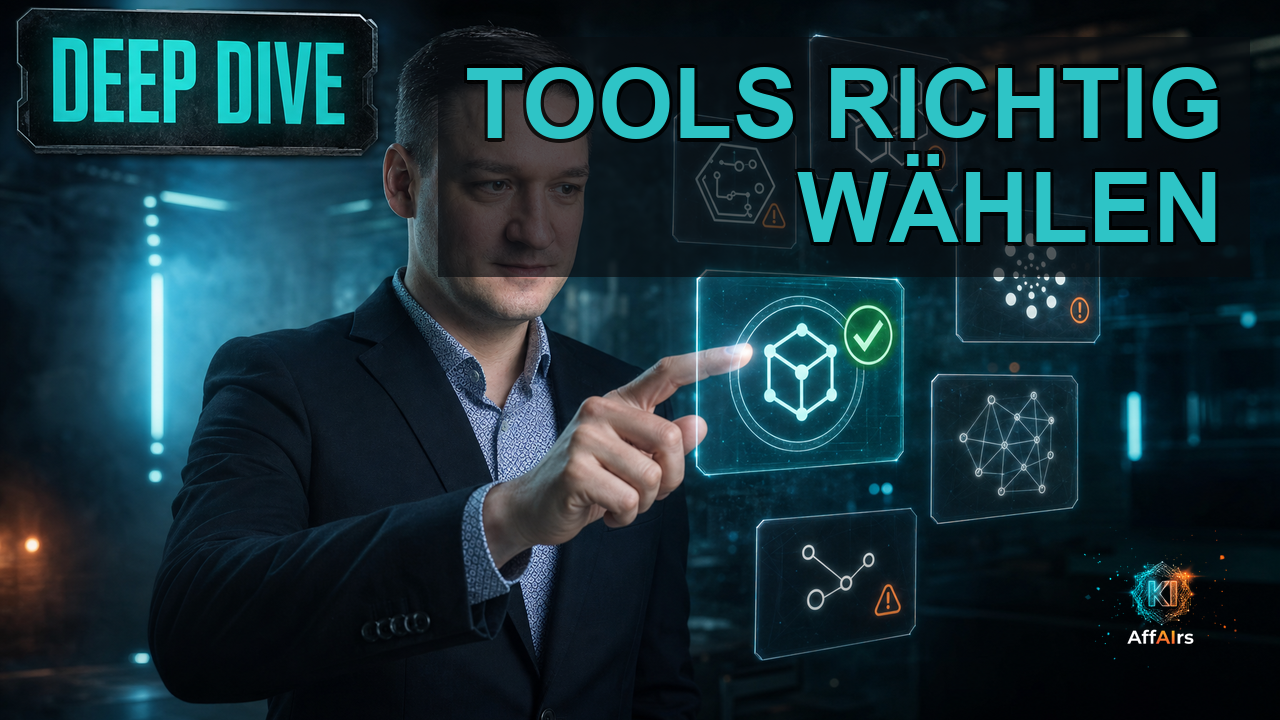
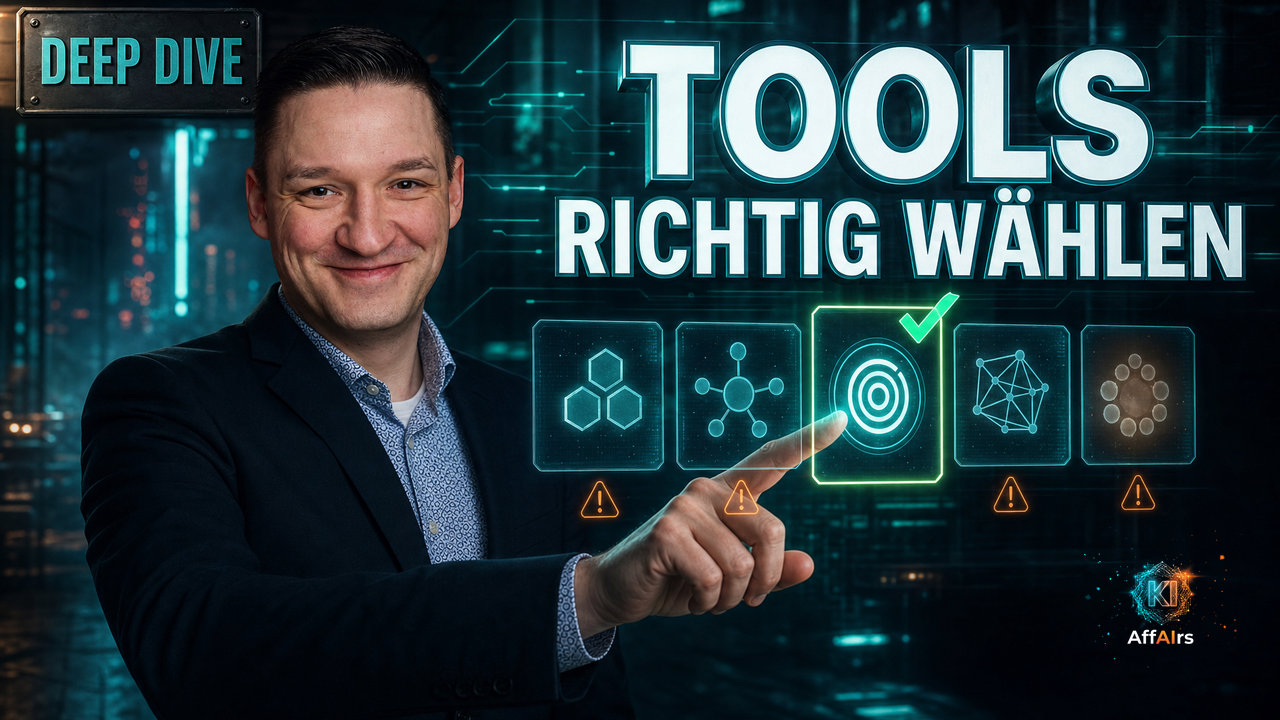
Thumbnails: nativer Text statt Pillow-Overlay + Thumbnail-Standard (Hybrid)
- Thumbnails 035/036 mit nativ generiertem, integriertem Headline-Text (statt aufgeklebtem Pillow-Text)
- Thumbnail-Standard festgelegt: fester DIN-Badge + Logo per Code, Headline nativ, Motiv frei (THUMBNAIL-STANDARD.md)
- tools/thumb_template.py: fester Marken-Badge (DIN Condensed Bold, Quicky=orange/DeepDive=cyan) + Logo
- gilt ab Folge 037; 035/036 behalten nativen Badge

diff --git a/tools/thumb_template.py b/tools/thumb_template.py
@@ -1,0 +1,107 @@
+#!/usr/bin/env python3
+# -*- coding: utf-8 -*-
+"""thumb_template.py — FESTER Marken-Rahmen für Podcast-Thumbnails (Wiedererkennungswert).
+
+Standard (Hybrid): Badge + Logo werden hier per Code IMMER GLEICH gesetzt; die große
+Headline wird nativ im KI-Motiv generiert (separat). Badge-Schrift = DIN Condensed Bold.
+
+  python thumb_template.py --in motiv.png --out final.png --kind quicky|deepdive \
+      [--cover-old]   # überdeckt einen bereits eingebrannten Badge oben links (für Mockups)
+"""
+import argparse
+from pathlib import Path
+from PIL import Image, ImageDraw, ImageFont, ImageFilter
+
+LOGO = Path.home() / "Desktop/Claude/Code/Bild Assets/ki_affairs_logo_transparent_clean.png"
+DIN = "/System/Library/Fonts/Supplemental/DIN Condensed Bold.ttf"
+ORANGE = (233, 113, 50)
+CYAN = (46, 196, 198)
+KINDS = {
+    "quicky":   {"label": "QUICKY",    "accent": ORANGE},
+    "deepdive": {"label": "DEEP DIVE", "accent": CYAN},
+}
+
+
+def font(size):
+    try:
+        return ImageFont.truetype(DIN, size)
+    except Exception:
+        return ImageFont.truetype("/System/Library/Fonts/Supplemental/Arial Bold.ttf", size)
+
+
+def draw_badge(img, label, accent, cover_old=False):
+    """Feste Marken-Plakette oben links: dunkles Tag, linker Akzentbalken, DIN-Versalien, dezenter Glow."""
+    base = img.convert("RGBA")
+    bw, bh = base.size
+    pad = int(bw * 0.030)                      # Außenabstand
+    fsz = int(bh * 0.085)                       # feste Schriftgröße
+    f = font(fsz)
+    d0 = ImageDraw.Draw(base)
+    # gesperrte Versalien für Plaketten-Look
+    text = " ".join(list(label)).replace("   ", "  ")  # leichtes Tracking
+    tw = int(d0.textlength(text, font=f))
+    th = fsz
+    bar = max(6, int(bw * 0.006))               # Akzentbalken-Breite
+    inner = int(fsz * 0.42)                      # Innenabstand
+    plate_w = bar + inner + tw + inner
+    plate_h = th + int(inner * 1.4)
+    x0, y0 = pad, pad
+    if cover_old:                                # alten eingebrannten Badge dezent abdunkeln (nur Eckzone)
+        cw = min(bw // 2, x0 + plate_w + int(pad * 1.2))
+        ch = y0 + plate_h + int(pad * 1.0)
+        scrim = Image.new("RGBA", (cw, ch), (0, 0, 0, 0))
+        sd = ImageDraw.Draw(scrim)
+        for yy in range(ch):                     # weicher vertikaler Verlauf, oben dunkler
+            a = int(200 * max(0.0, 1 - yy / ch) ** 1.2)
+            sd.line([(0, yy), (cw, yy)], fill=(8, 11, 15, a))
+        scrim = scrim.filter(ImageFilter.GaussianBlur(8))
+        base.alpha_composite(scrim, (0, 0))
+    layer = Image.new("RGBA", base.size, (0, 0, 0, 0))
+    dl = ImageDraw.Draw(layer)
+    # Glow
+    glow = Image.new("RGBA", base.size, (0, 0, 0, 0))
+    ImageDraw.Draw(glow).rectangle([x0 - 3, y0 - 3, x0 + plate_w + 3, y0 + plate_h + 3],
+                                   fill=accent + (90,))
+    layer = Image.alpha_composite(layer, glow.filter(ImageFilter.GaussianBlur(10)))
+    dl = ImageDraw.Draw(layer)
+    # Plakette
+    dl.rectangle([x0, y0, x0 + plate_w, y0 + plate_h], fill=(10, 14, 19, 235))
+    dl.rectangle([x0, y0, x0 + plate_w, y0 + plate_h], outline=accent + (255,), width=2)
+    dl.rectangle([x0, y0, x0 + bar, y0 + plate_h], fill=accent + (255,))   # Akzentbalken links
+    # Text vertikal zentriert
+    ty = y0 + (plate_h - th) // 2 - int(fsz * 0.12)
+    dl.text((x0 + bar + inner, ty), text, font=f, fill=accent + (255,))
+    base = Image.alpha_composite(base, layer)
+    return base
+
+
+def place_logo(base, frac=0.115, pad_frac=0.030):
+    base = base.convert("RGBA")
+    logo = Image.open(LOGO).convert("RGBA")
+    bw, bh = base.size
+    tw = int(bw * frac)
+    logo = logo.resize((tw, int(logo.height * tw / logo.width)), Image.LANCZOS)
+    pad = int(bw * pad_frac)
+    base.alpha_composite(logo, (bw - logo.width - pad, bh - logo.height - pad))
+    return base
+
+
+def main():
+    ap = argparse.ArgumentParser()
+    ap.add_argument("--in", dest="inp", required=True)
+    ap.add_argument("--out", required=True)
+    ap.add_argument("--kind", required=True, choices=list(KINDS))
+    ap.add_argument("--cover-old", action="store_true")
+    ap.add_argument("--no-logo", action="store_true")
+    a = ap.parse_args()
+    k = KINDS[a.kind]
+    img = Image.open(a.inp).convert("RGBA")
+    img = draw_badge(img, k["label"], k["accent"], cover_old=a.cover_old)
+    if not a.no_logo:
+        img = place_logo(img)
+    img.convert("RGB").save(a.out, "PNG")
+    print(f"OK -> {a.out}  [{k['label']}]")
+
+
+if __name__ == "__main__":
+    main()

diff --git a/tools/_write_thumb_text_prompts.py b/tools/_write_thumb_text_prompts.py
@@ -1,0 +1,61 @@
+#!/usr/bin/env python3
+# -*- coding: utf-8 -*-
+"""Schreibt Thumbnail-Prompts mit NATIV integrierter Headline (statt Pillow-Overlay)."""
+from pathlib import Path
+B = Path.home() / "Desktop/Claude/Code/podcastworkflow-cz/Staffel 03"
+D11 = B / "03-011_KI-und-die-menschliche-Psyche/bilder"
+D12 = B / "03-012_KI-lernt-luegen/bilder"
+
+CLAUS = ("Die beigefügten Fotos zeigen einen echten Mann namens Claus, Mitte 40, kurze dunkle Haare, "
+         "gepflegter Dreitagebart, dunkler Blazer. Übernimm sein Gesicht, seine Proportionen und seine "
+         "Identität exakt und konsistent, fotorealistisch, eine echte Person, niemals ein Roboter, niemals karikiert.")
+LOGO = ("Marke/Logo: Lasse die untere rechte Bildecke ruhig, dunkel und frei von Objekten und Text. Male "
+        "dort selbst KEIN Logo und keine Buchstaben — dort wird separat das echte KI-AffAIrs-Logo eingefügt.")
+STYLE = ("Stil: Tech-Noir, Dark-Tech Ruhrgebiet, fotorealistisch wie Blade Runner 2049, dramatisches Rim-Light, "
+         "volumetrischer Dunst, hoher Detailgrad, Querformat 16:9.")
+
+def textblock(plakette_wort, plakette_farbe, headline, head_farbe, head_pos):
+    return (
+        f"Text im Bild (sauber und exakt geschrieben, KEINE Pseudo-Buchstaben, KEINE falschen Zeichen):\n"
+        f"1) Oben links eine dunkle, rechteckige Metall-Plakette mit dem {plakette_farbe}farbenen Wort "
+        f"«{plakette_wort}» in fetten Großbuchstaben, perfekt lesbar.\n"
+        f"2) Eine GROSSE, prominente Marketing-Headline «{headline}» — fett, klar, in {head_farbe} mit weißem "
+        f"Kern und dunklem Rand für Kontrast, professionell als kinoreifer Grafik-Text {head_pos} ins Thumbnail "
+        f"integriert (NICHT flach aufgeklebt, sondern mit Bild-Licht, Glow und Tiefe verschmelzend). "
+        f"Exakt diese Schreibweise Wort für Wort, inklusive korrekter deutscher Umlaute, große Schrift, "
+        f"auf einen Blick lesbar. Sonst KEIN weiterer Text."
+    )
+
+PROMPTS = {
+ D11/"_api-prompt-thumb-quicky-text.txt": "\n\n".join([
+   "Erzeuge ein fotorealistisches, kinoreifes YouTube-Thumbnail im Querformat 16:9. " + CLAUS,
+   ("Szene mit klarer Aktion: Claus steht rechts im Bild und hält mit wachem, alarmiertem Ausdruck ein "
+    "leuchtend-oranges Hologramm eines menschlichen Gehirns in seiner offenen Hand. Die eine Hälfte pulsiert "
+    "lebendig mit neuronalen Funken, die andere Hälfte erstarrt zu einem kühlen, mechanischen Autopilot-"
+    "Schaltkreis. Hintergrund: dunkler High-Tech-Raum mit orangem Dunst. Farb-Dominanz kräftiges Orange "
+    "(#E97132), minimale cyan-türkise Akzente."),
+   textblock("QUICKY", "orange", "DENKT KI FÜR DICH?", "kräftigem Orange/Weiß", "oben rechts / rechte Bildhälfte"),
+   LOGO, STYLE]),
+ D11/"_api-prompt-thumb-deepdive-text.txt": "\n\n".join([
+   "Erzeuge ein fotorealistisches, kinoreifes YouTube-Thumbnail im Querformat 16:9. " + CLAUS,
+   ("Szene mit klarer Aktion: Claus steht links im Bild, souverän und ruhig, halb der Kamera zugewandt, und "
+    "justiert mit einer Hand ein stabil leuchtendes Hologramm, das einen geschlossenen Kreislauf zwischen einem "
+    "menschlichen Gehirn und einem KI-Knoten zeigt (Human-in-the-Loop). Der Mensch hat sichtbar die Kontrolle. "
+    "Hintergrund: dunkler High-Tech-Raum mit feinen cyan-türkisen Linien. Farb-Dominanz kühles Cyan-Teal "
+    "(#2EC4C6), gezielte orange Akzente am KI-Element."),
+   textblock("DEEP DIVE", "cyan-türkis", "MENSCH AM STEUER", "kräftigem Cyan-Teal/Weiß", "oben rechts / rechte Bildhälfte"),
+   LOGO, STYLE]),
+ D12/"_api-prompt-thumb-deepdive-text.txt": "\n\n".join([
+   "Erzeuge ein fotorealistisches, kinoreifes YouTube-Thumbnail im Querformat 16:9. " + CLAUS,
+   ("Szene mit klarer Aktion: Claus steht links im Bild, souverän und analytisch, und wählt mit einer Hand "
+    "gezielt aus mehreren schwebenden, holografischen KI-Tool-Karten genau die EINE Karte mit klarem grünem "
+    "Häkchen aus; die anderen Karten zeigen kleine orange Warnsymbole. Die Tool-Karten tragen NUR abstrakte, "
+    "generische Symbole (Sechsecke, Kreise, Netzknoten) — KEINE realen Marken-/Firmenlogos, KEINE Buchstaben "
+    "auf den Karten. Hintergrund: dunkler High-Tech-Raum, feine cyan-türkise Linien. Farb-Dominanz kühles "
+    "Cyan-Teal (#2EC4C6), gezielte orange Akzente."),
+   textblock("DEEP DIVE", "cyan-türkis", "TOOLS RICHTIG WÄHLEN", "kräftigem Cyan-Teal/Weiß", "oben rechts / rechte Bildhälfte"),
+   LOGO, STYLE]),
+}
+for p, txt in PROMPTS.items():
+    p.write_text(txt + "\n", encoding="utf-8")
+    print(f"OK {p.parent.parent.name}/{p.name}")

diff --git a/THUMBNAIL-STANDARD.md b/THUMBNAIL-STANDARD.md
@@ -1,0 +1,32 @@
+# Thumbnail- & Bild-Standard (Wiedererkennungswert)
+
+**Ziel:** Jede Folge sofort als KI-AffAIrs-Podcast erkennbar. Erreicht durch einen **festen Marken-Rahmen** bei **freiem, thematischem Motiv**.
+
+## Hybrid-Prinzip (festgelegt 21.06.2026)
+| Ebene | Wie | Warum |
+|---|---|---|
+| **Badge** (QUICKY / DEEP DIVE) | **fest per Code** — `tools/thumb_template.py` | immer identisch → Wiedererkennung, kostenlos, Text korrekt |
+| **Logo** | **fest per Code** — transparentes PNG unten rechts | Marke immer sauber |
+| **Headline** (Kernaussage) | **nativ im KI-Motiv** generiert | verschmilzt mit Licht/Tiefe (nicht aufgeklebt) |
+| **Motiv** (Claus + Szene) | KI-generiert (gpt-image-2), je Thema frei | Abwechslung, kreative Ideen (z. B. „Wer wird Millionär"-Quiz für Tool-Wahl) |
+
+## Feste Spezifikation
+- **Format:** 1280×720 (16:9), natives 16:9 generieren (`--size 1792x1024`).
+- **Badge** (oben links, fester Abstand 3 %): dunkle rechteckige Metall-Plakette, **DIN Condensed Bold** (Versalien, leicht gesperrt), **linker Akzentbalken** + dünner Rand + dezenter Glow.
+  - **QUICKY = Orange `#E97132`**, **DEEP DIVE = Cyan-Teal `#2EC4C6`**.
+- **Headline** (rechte Bildhälfte / oben, native Generierung): 2–4 Wörter Kernaussage, große fette Schrift, weiß mit Markenfarb-Akzent + Glow, **korrekte deutsche Umlaute**, sonst kein weiterer Text.
+- **Logo:** `Bild Assets/ki_affairs_logo_transparent_clean.png` (RGBA!), unten rechts, ~11,5 % Bildbreite.
+- **Farb-Logik:** **Quicky = Orange (Alarm/Problem)**, **Deep Dive = Cyan (Lösung/Kontrolle)** — durchgängig.
+- **Motiv:** Claus (Likeness aus `assets/000_PP-1`,`001_PP-2`), Tech-Noir „Dark-Tech Ruhrgebiet"/Blade-Runner-2049-Look, klar geschichtet. **Im Motiv-Prompt: KEIN QUICKY/DEEP-DIVE-Badge, KEIN Logo, KEINE realen Fremd-Markenlogos** (Badge/Logo kommen per Template; obere linke + untere rechte Ecke freihalten).
+
+## Workflow (Reihenfolge)
+1. **Motiv + Headline** generieren: `gen_thumb_v2.py` mit Headline im Prompt, **ohne** Badge/Logo, untere-rechte + obere-linke Ecke frei.
+2. **Rahmen** setzen: `thumb_template.py --in motiv.png --out final.png --kind quicky|deepdive` → fester Badge + Logo.
+   - Für Altbilder mit bereits eingebranntem Badge: `--cover-old` (dunkelt die Eckzone ab).
+
+## Kosten-Regel
+Nur **Motive** verbrauchen API-Credits. Badge/Logo/Headline-Textwechsel im Rahmen = **0 $**. Vor Neugenerierung immer prüfen, ob nur der Rahmen geändert werden muss.
+
+## LinkedIn / Blog
+- **LinkedIn:** gleicher Rahmen optional (Badge weglassbar), Kernaussage prominent, **nie** Konstellationen, die übergriffig wirken (kein „Person sitzt / zweite Person steht dahinter").
+- **Blog-Bilder:** Mischung Person/Konzept, **kein Text** (Bildunterschrift + Fließtext erklären), Logo per Template.